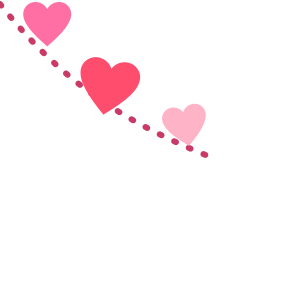
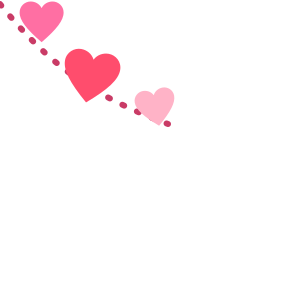
theme-pack: Valentine's: love letters on tiles, a rimmed heart slider, corner garland inside 100 px

Changed region(s): [[0.18, 0.15, 0.69, 0.54], [0.06, 0.0, 0.24, 0.21], [0.42, 0.39, 0.45, 0.42]]

diff --git a/tools/theme-pack/packs/themes/valentine.js b/tools/theme-pack/packs/themes/valentine.js
@@ -1,18 +1,18 @@
 (function () {
-  // Hearts floating behind everything, a garland of hearts in each top corner, a row of hearts under the inputs, a rose-pink glow at focus, a heart on every slider and switch.
+  // Hearts floating behind everything, a garland of hearts in each top corner, a row of hearts under the inputs, a rose-pink glow at focus, a love letter on tiles, a rimmed heart on every slider and a heart on every switch.
   var SKY = '<svg style="position:absolute;left:475.8px;top:922.5px;opacity:0.41" width="39" height="39" viewBox="0 0 24 24" aria-hidden="true"><g transform="rotate(-7 12 12)"><path d="M12 21C5 15 2 11 2 7.5C2 4.5 4.5 2.5 7 2.5C9 2.5 11 3.5 12 5.5C13 3.5 15 2.5 17 2.5C19.5 2.5 22 4.5 22 7.5C22 11 19 15 12 21Z" fill="#FF6FA3"></path></g></svg><svg style="position:absolute;left:1404.4px;top:333.1px;opacity:0.39" width="29" height="29" viewBox="0 0 24 24" aria-hidden="true"><g transform="rotate(0 12 12)"><path d="M12 21C5 15 2 11 2 7.5C2 4.5 4.5 2.5 7 2.5C9 2.5 11 3.5 12 5.5C13 3.5 15 2.5 17 2.5C19.5 2.5 22 4.5 22 7.5C22 11 19 15 12 21Z" fill="#FF4D6D"></path></g></svg><svg style="position:absolute;left:1742.3px;top:676.2px;opacity:0.39" width="31" height="31" viewBox="0 0 24 24" aria-hidden="true"><g transform="rotate(7 12 12)"><path d="M12 21C5 15 2 11 2 7.5C2 4.5 4.5 2.5 7 2.5C9 2.5 11 3.5 12 5.5C13 3.5 15 2.5 17 2.5C19.5 2.5 22 4.5 22 7.5C22 11 19 15 12 21Z" fill="#FFB3C7"></path></g></svg><svg style="position:absolute;left:531.2px;top:529px;opacity:0.42" width="22" height="22" viewBox="0 0 24 24" aria-hidden="true"><g transform="rotate(18 12 12)"><path d="M12 21C5 15 2 11 2 7.5C2 4.5 4.5 2.5 7 2.5C9 2.5 11 3.5 12 5.5C13 3.5 15 2.5 17 2.5C19.5 2.5 22 4.5 22 7.5C22 11 19 15 12 21Z" fill="#E0457B"></path></g></svg><svg style="position:absolute;left:1432.7px;top:250.9px;opacity:0.48" width="35" height="35" viewBox="0 0 24 24" aria-hidden="true"><g transform="rotate(24 12 12)"><path d="M12 21C5 15 2 11 2 7.5C2 4.5 4.5 2.5 7 2.5C9 2.5 11 3.5 12 5.5C13 3.5 15 2.5 17 2.5C19.5 2.5 22 4.5 22 7.5C22 11 19 15 12 21Z" fill="#FF6FA3"></path></g></svg><svg style="position:absolute;left:1483.9px;top:560.2px;opacity:0.45" width="39" height="39" viewBox="0 0 24 24" aria-hidden="true"><g transform="rotate(5 12 12)"><path d="M12 21C5 15 2 11 2 7.5C2 4.5 4.5 2.5 7 2.5C9 2.5 11 3.5 12 5.5C13 3.5 15 2.5 17 2.5C19.5 2.5 22 4.5 22 7.5C22 11 19 15 12 21Z" fill="#FF4D6D"></path></g></svg><svg style="position:absolute;left:578.3px;top:952.1px;opacity:0.36" width="32" height="32" viewBox="0 0 24 24" aria-hidden="true"><g transform="rotate(-13 12 12)"><path d="M12 21C5 15 2 11 2 7.5C2 4.5 4.5 2.5 7 2.5C9 2.5 11 3.5 12 5.5C13 3.5 15 2.5 17 2.5C19.5 2.5 22 4.5 22 7.5C22 11 19 15 12 21Z" fill="#FFB3C7"></path></g></svg><svg style="position:absolute;left:1275px;top:300.7px;opacity:0.46" width="22" height="22" viewBox="0 0 24 24" aria-hidden="true"><g transform="rotate(-24 12 12)"><path d="M12 21C5 15 2 11 2 7.5C2 4.5 4.5 2.5 7 2.5C9 2.5 11 3.5 12 5.5C13 3.5 15 2.5 17 2.5C19.5 2.5 22 4.5 22 7.5C22 11 19 15 12 21Z" fill="#E0457B"></path></g></svg><svg style="position:absolute;left:1084px;top:465.5px;opacity:0.34" width="23" height="23" viewBox="0 0 24 24" aria-hidden="true"><g transform="rotate(19 12 12)"><path d="M12 21C5 15 2 11 2 7.5C2 4.5 4.5 2.5 7 2.5C9 2.5 11 3.5 12 5.5C13 3.5 15 2.5 17 2.5C19.5 2.5 22 4.5 22 7.5C22 11 19 15 12 21Z" fill="#FF6FA3"></path></g></svg><svg style="position:absolute;left:221.3px;top:348.5px;opacity:0.40" width="27" height="27" viewBox="0 0 24 24" aria-hidden="true"><g transform="rotate(3 12 12)"><path d="M12 21C5 15 2 11 2 7.5C2 4.5 4.5 2.5 7 2.5C9 2.5 11 3.5 12 5.5C13 3.5 15 2.5 17 2.5C19.5 2.5 22 4.5 22 7.5C22 11 19 15 12 21Z" fill="#FF4D6D"></path></g></svg><svg style="position:absolute;left:1760.8px;top:10.7px;opacity:0.36" width="32" height="32" viewBox="0 0 24 24" aria-hidden="true"><g transform="rotate(-2 12 12)"><path d="M12 21C5 15 2 11 2 7.5C2 4.5 4.5 2.5 7 2.5C9 2.5 11 3.5 12 5.5C13 3.5 15 2.5 17 2.5C19.5 2.5 22 4.5 22 7.5C22 11 19 15 12 21Z" fill="#FFB3C7"></path></g></svg><svg style="position:absolute;left:1084.7px;top:655.3px;opacity:0.42" width="27" height="27" viewBox="0 0 24 24" aria-hidden="true"><g transform="rotate(-6 12 12)"><path d="M12 21C5 15 2 11 2 7.5C2 4.5 4.5 2.5 7 2.5C9 2.5 11 3.5 12 5.5C13 3.5 15 2.5 17 2.5C19.5 2.5 22 4.5 22 7.5C22 11 19 15 12 21Z" fill="#E0457B"></path></g></svg><svg style="position:absolute;left:297px;top:349.4px;opacity:0.38" width="23" height="23" viewBox="0 0 24 24" aria-hidden="true"><g transform="rotate(-24 12 12)"><path d="M12 21C5 15 2 11 2 7.5C2 4.5 4.5 2.5 7 2.5C9 2.5 11 3.5 12 5.5C13 3.5 15 2.5 17 2.5C19.5 2.5 22 4.5 22 7.5C22 11 19 15 12 21Z" fill="#FF6FA3"></path></g></svg><svg style="position:absolute;left:1573.1px;top:352.9px;opacity:0.43" width="32" height="32" viewBox="0 0 24 24" aria-hidden="true"><g transform="rotate(-8 12 12)"><path d="M12 21C5 15 2 11 2 7.5C2 4.5 4.5 2.5 7 2.5C9 2.5 11 3.5 12 5.5C13 3.5 15 2.5 17 2.5C19.5 2.5 22 4.5 22 7.5C22 11 19 15 12 21Z" fill="#FF4D6D"></path></g></svg><svg style="position:absolute;left:355.3px;top:147.8px;opacity:0.35" width="27" height="27" viewBox="0 0 24 24" aria-hidden="true"><g transform="rotate(24 12 12)"><path d="M12 21C5 15 2 11 2 7.5C2 4.5 4.5 2.5 7 2.5C9 2.5 11 3.5 12 5.5C13 3.5 15 2.5 17 2.5C19.5 2.5 22 4.5 22 7.5C22 11 19 15 12 21Z" fill="#FFB3C7"></path></g></svg><svg style="position:absolute;left:1474.2px;top:691.4px;opacity:0.36" width="43" height="43" viewBox="0 0 24 24" aria-hidden="true"><g transform="rotate(-18 12 12)"><path d="M12 21C5 15 2 11 2 7.5C2 4.5 4.5 2.5 7 2.5C9 2.5 11 3.5 12 5.5C13 3.5 15 2.5 17 2.5C19.5 2.5 22 4.5 22 7.5C22 11 19 15 12 21Z" fill="#E0457B"></path></g></svg><svg style="position:absolute;left:1377.5px;top:538.5px;opacity:0.40" width="41" height="41" viewBox="0 0 24 24" aria-hidden="true"><g transform="rotate(20 12 12)"><path d="M12 21C5 15 2 11 2 7.5C2 4.5 4.5 2.5 7 2.5C9 2.5 11 3.5 12 5.5C13 3.5 15 2.5 17 2.5C19.5 2.5 22 4.5 22 7.5C22 11 19 15 12 21Z" fill="#FF6FA3"></path></g></svg><svg style="position:absolute;left:1160.8px;top:990.1px;opacity:0.32" width="24" height="24" viewBox="0 0 24 24" aria-hidden="true"><g transform="rotate(-22 12 12)"><path d="M12 21C5 15 2 11 2 7.5C2 4.5 4.5 2.5 7 2.5C9 2.5 11 3.5 12 5.5C13 3.5 15 2.5 17 2.5C19.5 2.5 22 4.5 22 7.5C22 11 19 15 12 21Z" fill="#FF4D6D"></path></g></svg><svg style="position:absolute;left:1093.3px;top:146.3px;opacity:0.34" width="22" height="22" viewBox="0 0 24 24" aria-hidden="true"><g transform="rotate(-22 12 12)"><path d="M12 21C5 15 2 11 2 7.5C2 4.5 4.5 2.5 7 2.5C9 2.5 11 3.5 12 5.5C13 3.5 15 2.5 17 2.5C19.5 2.5 22 4.5 22 7.5C22 11 19 15 12 21Z" fill="#FFB3C7"></path></g></svg><svg style="position:absolute;left:639.5px;top:148.7px;opacity:0.46" width="22" height="22" viewBox="0 0 24 24" aria-hidden="true"><g transform="rotate(-18 12 12)"><path d="M12 21C5 15 2 11 2 7.5C2 4.5 4.5 2.5 7 2.5C9 2.5 11 3.5 12 5.5C13 3.5 15 2.5 17 2.5C19.5 2.5 22 4.5 22 7.5C22 11 19 15 12 21Z" fill="#E0457B"></path></g></svg><svg style="position:absolute;left:1251.8px;top:148.1px;opacity:0.30" width="33" height="33" viewBox="0 0 24 24" aria-hidden="true"><g transform="rotate(24 12 12)"><path d="M12 21C5 15 2 11 2 7.5C2 4.5 4.5 2.5 7 2.5C9 2.5 11 3.5 12 5.5C13 3.5 15 2.5 17 2.5C19.5 2.5 22 4.5 22 7.5C22 11 19 15 12 21Z" fill="#FF6FA3"></path></g></svg><svg style="position:absolute;left:1591.2px;top:444.1px;opacity:0.38" width="32" height="32" viewBox="0 0 24 24" aria-hidden="true"><g transform="rotate(23 12 12)"><path d="M12 21C5 15 2 11 2 7.5C2 4.5 4.5 2.5 7 2.5C9 2.5 11 3.5 12 5.5C13 3.5 15 2.5 17 2.5C19.5 2.5 22 4.5 22 7.5C22 11 19 15 12 21Z" fill="#FF4D6D"></path></g></svg><svg style="position:absolute;left:947.5px;top:691.5px;opacity:0.41" width="31" height="31" viewBox="0 0 24 24" aria-hidden="true"><g transform="rotate(23 12 12)"><path d="M12 21C5 15 2 11 2 7.5C2 4.5 4.5 2.5 7 2.5C9 2.5 11 3.5 12 5.5C13 3.5 15 2.5 17 2.5C19.5 2.5 22 4.5 22 7.5C22 11 19 15 12 21Z" fill="#FFB3C7"></path></g></svg><svg style="position:absolute;left:696.7px;top:740.3px;opacity:0.43" width="20" height="20" viewBox="0 0 24 24" aria-hidden="true"><g transform="rotate(24 12 12)"><path d="M12 21C5 15 2 11 2 7.5C2 4.5 4.5 2.5 7 2.5C9 2.5 11 3.5 12 5.5C13 3.5 15 2.5 17 2.5C19.5 2.5 22 4.5 22 7.5C22 11 19 15 12 21Z" fill="#E0457B"></path></g></svg>';
   var BOTTOM = '<svg width="1920" height="54" viewBox="0 0 1920 54" aria-hidden="true"><g transform="translate(0 -16)"><path d="M0 54V44C300 38 800 46 1200 42S1700 40 1920 44V54Z" fill="#7A1F45" opacity="0.7"></path><g transform="translate(35 41) scale(0.68)"><path d="M12 21C5 15 2 11 2 7.5C2 4.5 4.5 2.5 7 2.5C9 2.5 11 3.5 12 5.5C13 3.5 15 2.5 17 2.5C19.5 2.5 22 4.5 22 7.5C22 11 19 15 12 21Z" fill="#FF6FA3"></path></g><g transform="translate(111 27) scale(0.76)"><path d="M12 21C5 15 2 11 2 7.5C2 4.5 4.5 2.5 7 2.5C9 2.5 11 3.5 12 5.5C13 3.5 15 2.5 17 2.5C19.5 2.5 22 4.5 22 7.5C22 11 19 15 12 21Z" fill="#FF4D6D"></path></g><g transform="translate(161 27) scale(0.52)"><path d="M12 21C5 15 2 11 2 7.5C2 4.5 4.5 2.5 7 2.5C9 2.5 11 3.5 12 5.5C13 3.5 15 2.5 17 2.5C19.5 2.5 22 4.5 22 7.5C22 11 19 15 12 21Z" fill="#FFB3C7"></path></g><g transform="translate(236 42) scale(0.66)"><path d="M12 21C5 15 2 11 2 7.5C2 4.5 4.5 2.5 7 2.5C9 2.5 11 3.5 12 5.5C13 3.5 15 2.5 17 2.5C19.5 2.5 22 4.5 22 7.5C22 11 19 15 12 21Z" fill="#E0457B"></path></g><g transform="translate(287 35) scale(0.68)"><path d="M12 21C5 15 2 11 2 7.5C2 4.5 4.5 2.5 7 2.5C9 2.5 11 3.5 12 5.5C13 3.5 15 2.5 17 2.5C19.5 2.5 22 4.5 22 7.5C22 11 19 15 12 21Z" fill="#FF6FA3"></path></g><g transform="translate(356 38) scale(0.63)"><path d="M12 21C5 15 2 11 2 7.5C2 4.5 4.5 2.5 7 2.5C9 2.5 11 3.5 12 5.5C13 3.5 15 2.5 17 2.5C19.5 2.5 22 4.5 22 7.5C22 11 19 15 12 21Z" fill="#FF4D6D"></path></g><g transform="translate(411 40) scale(0.61)"><path d="M12 21C5 15 2 11 2 7.5C2 4.5 4.5 2.5 7 2.5C9 2.5 11 3.5 12 5.5C13 3.5 15 2.5 17 2.5C19.5 2.5 22 4.5 22 7.5C22 11 19 15 12 21Z" fill="#FFB3C7"></path></g><g transform="translate(474 27) scale(0.72)"><path d="M12 21C5 15 2 11 2 7.5C2 4.5 4.5 2.5 7 2.5C9 2.5 11 3.5 12 5.5C13 3.5 15 2.5 17 2.5C19.5 2.5 22 4.5 22 7.5C22 11 19 15 12 21Z" fill="#E0457B"></path></g><g transform="translate(543 32) scale(0.55)"><path d="M12 21C5 15 2 11 2 7.5C2 4.5 4.5 2.5 7 2.5C9 2.5 11 3.5 12 5.5C13 3.5 15 2.5 17 2.5C19.5 2.5 22 4.5 22 7.5C22 11 19 15 12 21Z" fill="#FF6FA3"></path></g><g transform="translate(608 28) scale(0.64)"><path d="M12 21C5 15 2 11 2 7.5C2 4.5 4.5 2.5 7 2.5C9 2.5 11 3.5 12 5.5C13 3.5 15 2.5 17 2.5C19.5 2.5 22 4.5 22 7.5C22 11 19 15 12 21Z" fill="#FF4D6D"></path></g><g transform="translate(659 28) scale(0.53)"><path d="M12 21C5 15 2 11 2 7.5C2 4.5 4.5 2.5 7 2.5C9 2.5 11 3.5 12 5.5C13 3.5 15 2.5 17 2.5C19.5 2.5 22 4.5 22 7.5C22 11 19 15 12 21Z" fill="#FFB3C7"></path></g><g transform="translate(724 38) scale(0.53)"><path d="M12 21C5 15 2 11 2 7.5C2 4.5 4.5 2.5 7 2.5C9 2.5 11 3.5 12 5.5C13 3.5 15 2.5 17 2.5C19.5 2.5 22 4.5 22 7.5C22 11 19 15 12 21Z" fill="#E0457B"></path></g><g transform="translate(786 41) scale(0.58)"><path d="M12 21C5 15 2 11 2 7.5C2 4.5 4.5 2.5 7 2.5C9 2.5 11 3.5 12 5.5C13 3.5 15 2.5 17 2.5C19.5 2.5 22 4.5 22 7.5C22 11 19 15 12 21Z" fill="#FF6FA3"></path></g><g transform="translate(848 32) scale(0.59)"><path d="M12 21C5 15 2 11 2 7.5C2 4.5 4.5 2.5 7 2.5C9 2.5 11 3.5 12 5.5C13 3.5 15 2.5 17 2.5C19.5 2.5 22 4.5 22 7.5C22 11 19 15 12 21Z" fill="#FF4D6D"></path></g><g transform="translate(908 37) scale(0.59)"><path d="M12 21C5 15 2 11 2 7.5C2 4.5 4.5 2.5 7 2.5C9 2.5 11 3.5 12 5.5C13 3.5 15 2.5 17 2.5C19.5 2.5 22 4.5 22 7.5C22 11 19 15 12 21Z" fill="#FFB3C7"></path></g><g transform="translate(963 40) scale(0.69)"><path d="M12 21C5 15 2 11 2 7.5C2 4.5 4.5 2.5 7 2.5C9 2.5 11 3.5 12 5.5C13 3.5 15 2.5 17 2.5C19.5 2.5 22 4.5 22 7.5C22 11 19 15 12 21Z" fill="#E0457B"></path></g><g transform="translate(1030 42) scale(0.65)"><path d="M12 21C5 15 2 11 2 7.5C2 4.5 4.5 2.5 7 2.5C9 2.5 11 3.5 12 5.5C13 3.5 15 2.5 17 2.5C19.5 2.5 22 4.5 22 7.5C22 11 19 15 12 21Z" fill="#FF6FA3"></path></g><g transform="translate(1088 30) scale(0.78)"><path d="M12 21C5 15 2 11 2 7.5C2 4.5 4.5 2.5 7 2.5C9 2.5 11 3.5 12 5.5C13 3.5 15 2.5 17 2.5C19.5 2.5 22 4.5 22 7.5C22 11 19 15 12 21Z" fill="#FF4D6D"></path></g><g transform="translate(1158 34) scale(0.55)"><path d="M12 21C5 15 2 11 2 7.5C2 4.5 4.5 2.5 7 2.5C9 2.5 11 3.5 12 5.5C13 3.5 15 2.5 17 2.5C19.5 2.5 22 4.5 22 7.5C22 11 19 15 12 21Z" fill="#FFB3C7"></path></g><g transform="translate(1217 29) scale(0.50)"><path d="M12 21C5 15 2 11 2 7.5C2 4.5 4.5 2.5 7 2.5C9 2.5 11 3.5 12 5.5C13 3.5 15 2.5 17 2.5C19.5 2.5 22 4.5 22 7.5C22 11 19 15 12 21Z" fill="#E0457B"></path></g><g transform="translate(1284 38) scale(0.54)"><path d="M12 21C5 15 2 11 2 7.5C2 4.5 4.5 2.5 7 2.5C9 2.5 11 3.5 12 5.5C13 3.5 15 2.5 17 2.5C19.5 2.5 22 4.5 22 7.5C22 11 19 15 12 21Z" fill="#FF6FA3"></path></g><g transform="translate(1343 38) scale(0.76)"><path d="M12 21C5 15 2 11 2 7.5C2 4.5 4.5 2.5 7 2.5C9 2.5 11 3.5 12 5.5C13 3.5 15 2.5 17 2.5C19.5 2.5 22 4.5 22 7.5C22 11 19 15 12 21Z" fill="#FF4D6D"></path></g><g transform="translate(1401 33) scale(0.69)"><path d="M12 21C5 15 2 11 2 7.5C2 4.5 4.5 2.5 7 2.5C9 2.5 11 3.5 12 5.5C13 3.5 15 2.5 17 2.5C19.5 2.5 22 4.5 22 7.5C22 11 19 15 12 21Z" fill="#FFB3C7"></path></g><g transform="translate(1473 34) scale(0.64)"><path d="M12 21C5 15 2 11 2 7.5C2 4.5 4.5 2.5 7 2.5C9 2.5 11 3.5 12 5.5C13 3.5 15 2.5 17 2.5C19.5 2.5 22 4.5 22 7.5C22 11 19 15 12 21Z" fill="#E0457B"></path></g><g transform="translate(1534 41) scale(0.60)"><path d="M12 21C5 15 2 11 2 7.5C2 4.5 4.5 2.5 7 2.5C9 2.5 11 3.5 12 5.5C13 3.5 15 2.5 17 2.5C19.5 2.5 22 4.5 22 7.5C22 11 19 15 12 21Z" fill="#FF6FA3"></path></g><g transform="translate(1598 29) scale(0.58)"><path d="M12 21C5 15 2 11 2 7.5C2 4.5 4.5 2.5 7 2.5C9 2.5 11 3.5 12 5.5C13 3.5 15 2.5 17 2.5C19.5 2.5 22 4.5 22 7.5C22 11 19 15 12 21Z" fill="#FF4D6D"></path></g><g transform="translate(1661 37) scale(0.56)"><path d="M12 21C5 15 2 11 2 7.5C2 4.5 4.5 2.5 7 2.5C9 2.5 11 3.5 12 5.5C13 3.5 15 2.5 17 2.5C19.5 2.5 22 4.5 22 7.5C22 11 19 15 12 21Z" fill="#FFB3C7"></path></g><g transform="translate(1705 31) scale(0.75)"><path d="M12 21C5 15 2 11 2 7.5C2 4.5 4.5 2.5 7 2.5C9 2.5 11 3.5 12 5.5C13 3.5 15 2.5 17 2.5C19.5 2.5 22 4.5 22 7.5C22 11 19 15 12 21Z" fill="#E0457B"></path></g><g transform="translate(1781 29) scale(0.65)"><path d="M12 21C5 15 2 11 2 7.5C2 4.5 4.5 2.5 7 2.5C9 2.5 11 3.5 12 5.5C13 3.5 15 2.5 17 2.5C19.5 2.5 22 4.5 22 7.5C22 11 19 15 12 21Z" fill="#FF6FA3"></path></g><g transform="translate(1843 33) scale(0.60)"><path d="M12 21C5 15 2 11 2 7.5C2 4.5 4.5 2.5 7 2.5C9 2.5 11 3.5 12 5.5C13 3.5 15 2.5 17 2.5C19.5 2.5 22 4.5 22 7.5C22 11 19 15 12 21Z" fill="#FF4D6D"></path></g></g></svg>';
-  var CORNER = '<svg width="150" height="150" viewBox="0 0 150 150" aria-hidden="true"><path d="M150 2C120 40 90 60 46 78" stroke="#C93B66" stroke-width="3" fill="none" stroke-linecap="round" stroke-dasharray="1 7"></path><g transform="translate(112 -2) scale(1.2)"><g transform="rotate(0 12 12)"><path d="M12 21C5 15 2 11 2 7.5C2 4.5 4.5 2.5 7 2.5C9 2.5 11 3.5 12 5.5C13 3.5 15 2.5 17 2.5C19.5 2.5 22 4.5 22 7.5C22 11 19 15 12 21Z" fill="#FF6FA3"></path></g></g><g transform="translate(78 26) scale(1.5)"><g transform="rotate(-10 12 12)"><path d="M12 21C5 15 2 11 2 7.5C2 4.5 4.5 2.5 7 2.5C9 2.5 11 3.5 12 5.5C13 3.5 15 2.5 17 2.5C19.5 2.5 22 4.5 22 7.5C22 11 19 15 12 21Z" fill="#FF4D6D"></path></g></g><g transform="translate(44 50) scale(1.1)"><g transform="rotate(10 12 12)"><path d="M12 21C5 15 2 11 2 7.5C2 4.5 4.5 2.5 7 2.5C9 2.5 11 3.5 12 5.5C13 3.5 15 2.5 17 2.5C19.5 2.5 22 4.5 22 7.5C22 11 19 15 12 21Z" fill="#FFB3C7"></path></g></g></svg>';
-  var CORNER_L = '<svg width="150" height="150" viewBox="0 0 150 150" aria-hidden="true" style="-webkit-transform:scaleX(-1);transform:scaleX(-1)"><path d="M150 2C120 40 90 60 46 78" stroke="#C93B66" stroke-width="3" fill="none" stroke-linecap="round" stroke-dasharray="1 7"></path><g transform="translate(112 -2) scale(1.2)"><g transform="rotate(0 12 12)"><path d="M12 21C5 15 2 11 2 7.5C2 4.5 4.5 2.5 7 2.5C9 2.5 11 3.5 12 5.5C13 3.5 15 2.5 17 2.5C19.5 2.5 22 4.5 22 7.5C22 11 19 15 12 21Z" fill="#FF6FA3"></path></g></g><g transform="translate(78 26) scale(1.5)"><g transform="rotate(-10 12 12)"><path d="M12 21C5 15 2 11 2 7.5C2 4.5 4.5 2.5 7 2.5C9 2.5 11 3.5 12 5.5C13 3.5 15 2.5 17 2.5C19.5 2.5 22 4.5 22 7.5C22 11 19 15 12 21Z" fill="#FF4D6D"></path></g></g><g transform="translate(44 50) scale(1.1)"><g transform="rotate(10 12 12)"><path d="M12 21C5 15 2 11 2 7.5C2 4.5 4.5 2.5 7 2.5C9 2.5 11 3.5 12 5.5C13 3.5 15 2.5 17 2.5C19.5 2.5 22 4.5 22 7.5C22 11 19 15 12 21Z" fill="#FFB3C7"></path></g></g></svg>';
+  var CORNER = '<svg width="150" height="150" viewBox="0 0 150 150" aria-hidden="true"><path d="M150 2C126 32 104 48 66 62" stroke="#C93B66" stroke-width="3" fill="none" stroke-linecap="round" stroke-dasharray="1 7"></path><g transform="translate(116 -2) scale(1.1)"><g transform="rotate(0 12 12)"><path d="M12 21C5 15 2 11 2 7.5C2 4.5 4.5 2.5 7 2.5C9 2.5 11 3.5 12 5.5C13 3.5 15 2.5 17 2.5C19.5 2.5 22 4.5 22 7.5C22 11 19 15 12 21Z" fill="#FF6FA3"></path></g></g><g transform="translate(88 22) scale(1.4)"><g transform="rotate(-10 12 12)"><path d="M12 21C5 15 2 11 2 7.5C2 4.5 4.5 2.5 7 2.5C9 2.5 11 3.5 12 5.5C13 3.5 15 2.5 17 2.5C19.5 2.5 22 4.5 22 7.5C22 11 19 15 12 21Z" fill="#FF4D6D"></path></g></g><g transform="translate(60 42) scale(1)"><g transform="rotate(10 12 12)"><path d="M12 21C5 15 2 11 2 7.5C2 4.5 4.5 2.5 7 2.5C9 2.5 11 3.5 12 5.5C13 3.5 15 2.5 17 2.5C19.5 2.5 22 4.5 22 7.5C22 11 19 15 12 21Z" fill="#FFB3C7"></path></g></g></svg>';
+  var CORNER_L = '<svg width="150" height="150" viewBox="0 0 150 150" aria-hidden="true" style="-webkit-transform:scaleX(-1);transform:scaleX(-1)"><path d="M150 2C126 32 104 48 66 62" stroke="#C93B66" stroke-width="3" fill="none" stroke-linecap="round" stroke-dasharray="1 7"></path><g transform="translate(116 -2) scale(1.1)"><g transform="rotate(0 12 12)"><path d="M12 21C5 15 2 11 2 7.5C2 4.5 4.5 2.5 7 2.5C9 2.5 11 3.5 12 5.5C13 3.5 15 2.5 17 2.5C19.5 2.5 22 4.5 22 7.5C22 11 19 15 12 21Z" fill="#FF6FA3"></path></g></g><g transform="translate(88 22) scale(1.4)"><g transform="rotate(-10 12 12)"><path d="M12 21C5 15 2 11 2 7.5C2 4.5 4.5 2.5 7 2.5C9 2.5 11 3.5 12 5.5C13 3.5 15 2.5 17 2.5C19.5 2.5 22 4.5 22 7.5C22 11 19 15 12 21Z" fill="#FF4D6D"></path></g></g><g transform="translate(60 42) scale(1)"><g transform="rotate(10 12 12)"><path d="M12 21C5 15 2 11 2 7.5C2 4.5 4.5 2.5 7 2.5C9 2.5 11 3.5 12 5.5C13 3.5 15 2.5 17 2.5C19.5 2.5 22 4.5 22 7.5C22 11 19 15 12 21Z" fill="#FFB3C7"></path></g></g></svg>';
   var ACCENT = '<svg width="100%" height="100%" viewBox="0 0 24 24" aria-hidden="true"><path d="M12 21C5 15 2 11 2 7.5C2 4.5 4.5 2.5 7 2.5C9 2.5 11 3.5 12 5.5C13 3.5 15 2.5 17 2.5C19.5 2.5 22 4.5 22 7.5C22 11 19 15 12 21Z" fill="#FF4D6D"></path></svg>';
-  var TILE = '<svg width="100%" height="100%" viewBox="0 0 24 24" aria-hidden="true"><path d="M12 21C5 15 2 11 2 7.5C2 4.5 4.5 2.5 7 2.5C9 2.5 11 3.5 12 5.5C13 3.5 15 2.5 17 2.5C19.5 2.5 22 4.5 22 7.5C22 11 19 15 12 21Z" fill="#FF6FA3"></path></svg>';
+  var TILE = '<svg width="100%" height="100%" viewBox="0 0 24 24" aria-hidden="true"><rect x="2" y="5" width="20" height="14" rx="2" fill="#FFE3EC" stroke="#E0457B" stroke-width="1.500"></rect><path d="M2.500 6.500L12 14l9.500-7.500" stroke="#E0457B" stroke-width="1.500" fill="none" stroke-linejoin="round"></path><g transform="translate(8.500 10.500) scale(0.3)"><path d="M12 21C5 15 2 11 2 7.5C2 4.5 4.5 2.5 7 2.5C9 2.5 11 3.5 12 5.5C13 3.5 15 2.5 17 2.5C19.5 2.5 22 4.5 22 7.5C22 11 19 15 12 21Z" fill="#E0457B"></path></g></svg>';
   var CHIP = '<svg width="100%" height="100%" viewBox="0 0 24 24" aria-hidden="true"><path d="M12 21C5 15 2 11 2 7.5C2 4.5 4.5 2.5 7 2.5C9 2.5 11 3.5 12 5.5C13 3.5 15 2.5 17 2.5C19.5 2.5 22 4.5 22 7.5C22 11 19 15 12 21Z" fill="#FFB3C7"></path></svg>';
-  var THUMB = '<svg width="100%" height="100%" viewBox="0 0 24 24" aria-hidden="true"><path d="M12 21C5 15 2 11 2 7.5C2 4.5 4.5 2.5 7 2.5C9 2.5 11 3.5 12 5.5C13 3.5 15 2.5 17 2.5C19.5 2.5 22 4.5 22 7.5C22 11 19 15 12 21Z" fill="#FF4D6D"></path></svg>';
-  var KNOB = '<svg width="100%" height="100%" viewBox="0 0 40 40" aria-hidden="true"><circle cx="20" cy="20" r="18" fill="#FFE3EC"></circle><g transform="translate(8 8)"><path d="M12 21C5 15 2 11 2 7.5C2 4.5 4.5 2.5 7 2.5C9 2.5 11 3.5 12 5.5C13 3.5 15 2.5 17 2.5C19.5 2.5 22 4.5 22 7.5C22 11 19 15 12 21Z" fill="#E0457B"></path></g></svg>';
+  var THUMB = '<svg width="100%" height="100%" viewBox="0 0 24 24" aria-hidden="true"><path d="M12 21C5 15 2 11 2 7.5C2 4.5 4.5 2.5 7 2.5C9 2.5 11 3.5 12 5.5C13 3.5 15 2.5 17 2.5C19.5 2.5 22 4.5 22 7.5C22 11 19 15 12 21Z" fill="#FF4D6D" stroke="#FFFFFF" stroke-width="1.600" stroke-linejoin="round"></path></svg>';
+  var KNOB = '<svg width="100%" height="100%" viewBox="0 0 40 40" aria-hidden="true"><circle cx="20" cy="20" r="17" fill="#FFE3EC" stroke="rgba(30,20,40,0.5)" stroke-width="2"></circle><g transform="translate(8 8)"><path d="M12 21C5 15 2 11 2 7.5C2 4.5 4.5 2.5 7 2.5C9 2.5 11 3.5 12 5.5C13 3.5 15 2.5 17 2.5C19.5 2.5 22 4.5 22 7.5C22 11 19 15 12 21Z" fill="#E0457B"></path></g></svg>';
   var GLOW = '#FF6FA3';
   var pack = {
     kind: 'theme', id: 'valentine', name: 'Valentine\'s',
-    description: 'Holiday: hearts floating behind, a heart garland in each top corner, hearts under the inputs, a rose-pink glow on focus, a heart on sliders and switches.',
+    description: 'Holiday: hearts floating behind, a heart garland in each top corner, hearts under the inputs, love letters on tiles, a rose-pink glow on focus, a heart on sliders and switches.',
     recipes: [
       { target: 'screen', slot: 'back', when: 'always', outset: 0, cost: 'static', html: SKY, asset: 'sky.png' },
       { target: 'screen', slot: 'front', when: 'always', outset: 0, cost: 'static', style: 'left:auto;bottom:auto;width:150px;height:150px', html: CORNER, asset: 'corner-right.png' },
@@ -21,7 +21,7 @@
       { target: 'toast', slot: 'front', when: 'always', outset: [30, 0, 0, -30], cost: 'static', style: 'right:auto;bottom:auto;width:44px;height:44px', html: ACCENT, asset: 'accent.png' },
       { target: 'dialog', slot: 'front', when: 'always', outset: [30, 0, 0, -30], cost: 'static', style: 'right:auto;bottom:auto;width:44px;height:44px', html: ACCENT, asset: 'accent.png' },
       { target: 'ribbon', slot: 'back', when: 'always', outset: [0, 96, 54, 96], cost: 'static', style: 'top:auto;height:54px', html: BOTTOM, asset: 'bottom.png' },
-      { target: 'tile', slot: 'front', when: 'always', outset: [18, 0, 0, 18], cost: 'static', style: 'right:auto;bottom:auto;width:36px;height:36px', html: TILE, asset: 'tile.png' },
+      { target: 'tile', slot: 'front', when: 'always', outset: [10, 0, 0, 10], cost: 'static', style: 'right:auto;bottom:auto;width:36px;height:36px', html: TILE, asset: 'tile.png' },
       { target: '*', slot: 'back', when: 'focused', outset: 26, cost: 'glow', fill: GLOW, radius: 56, blur: 16, opacity: 0.45 },
       { target: 'chip', slot: 'front', when: 'always', outset: [12, 0, 0, 12], cost: 'static', style: 'right:auto;bottom:auto;width:22px;height:22px', html: CHIP, asset: 'chip.png' },
       { target: 'thumb', slot: 'front', when: 'always', outset: 10, cost: 'static', html: THUMB, asset: 'thumb.png' },
